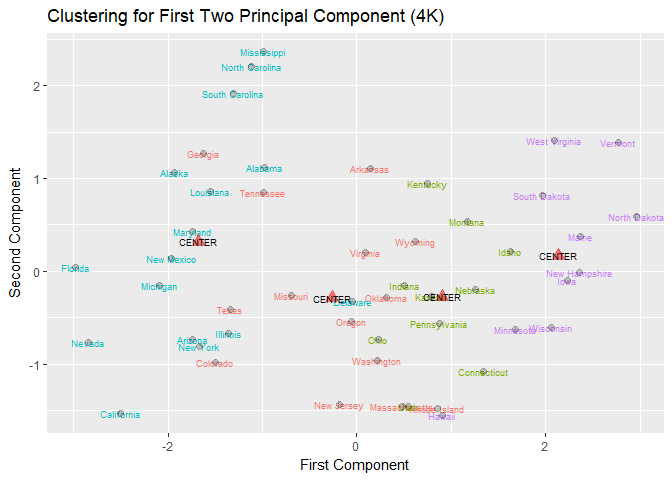
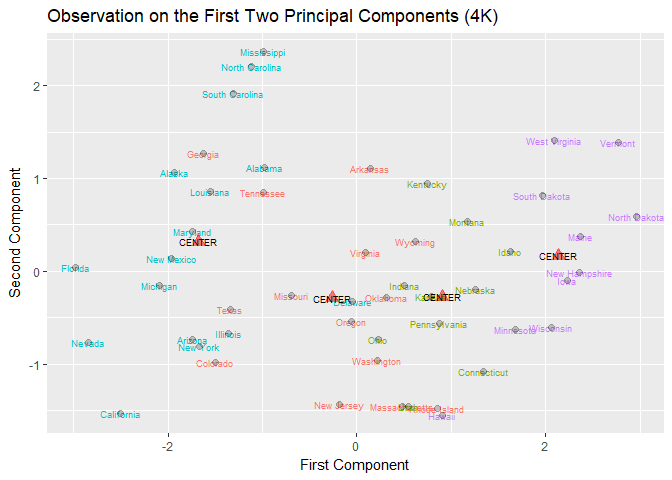
Unsupervised Learning

Changed region(s): [[0.0625, 0.0, 0.75, 0.0625]]

diff --git a/students/han_kanyao/unsupervised-learning.md b/students/han_kanyao/unsupervised-learning.md
@@ -1,4 +1,4 @@
-Untitled
+Unsupervised Learning
 ================
 Kanyao Han
 
@@ -155,7 +155,7 @@ ggplot(k2.out, aes(PC1, PC2)) +
              size = 3, fill = "red", color = "red", alpha = 0.5) +
   geom_text(aes(center1, center2, label = "CENTER"), data = k2.center, size = 2.5) +
   theme(legend.position = "none") +
-  labs(title = "Clustering for First Two Principal Component (2K)",
+  labs(title = "Observation on the First Two Principal Components (2K)",
        x = "First Component",
        y = "Second Component")
 ```
@@ -186,7 +186,7 @@ ggplot(k4.out, aes(PC1, PC2)) +
              size = 3, fill = "red", color = "red", alpha = 0.5) +
   geom_text(aes(center1, center2, label = "CENTER"), data = k4.center, size = 2.5) +
   theme(legend.position = "none") +
-  labs(title = "Clustering for First Two Principal Component (4K)",
+  labs(title = "Observation on the First Two Principal Components (4K)",
        x = "First Component",
        y = "Second Component")
 ```
@@ -218,7 +218,7 @@ ggplot(k3.out, aes(PC1, PC2)) +
   geom_text(aes(center1, center2, label = "CENTER"), data = k3.center, size = 2.5) +
   scale_color_manual(values = c("dark green", "#036564", "#EB6841")) +
   theme(legend.position = "none") +
-  labs(title = "Cluster for First Two Principal Component (3K)",
+  labs(title = "Observation on the First Two Principal Components (3K)",
        x = "First Component",
        y = "Second Component")
 ```
@@ -259,7 +259,7 @@ ggplot(k3.out2, aes(PC1, PC2)) +
   geom_text(aes(center1, center2, label = "CENTER"), data = k3.center2, size = 2.5) +
   scale_color_manual(values = c("#EB6841", "dark green", "#036564")) +
   theme(legend.position = "none") +
-  labs(title = "Cluster for First Two Principal Component (3K - 2PC)",
+  labs(title = "Observation on the First Two Principal Components (3K - 2PC)",
        x = "First Component",
        y = "Second Component")
 ```
